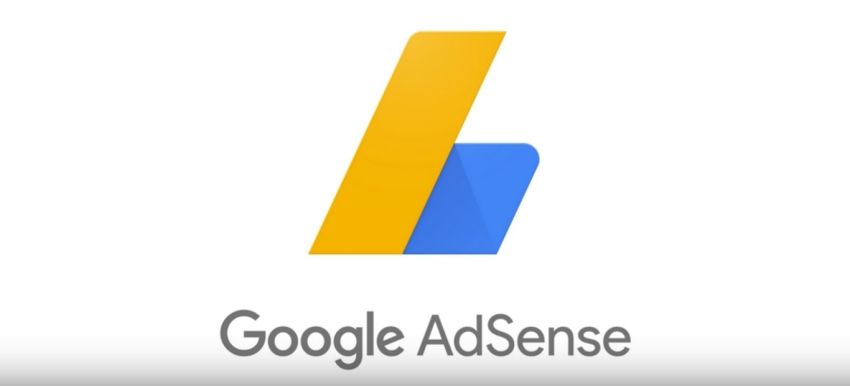
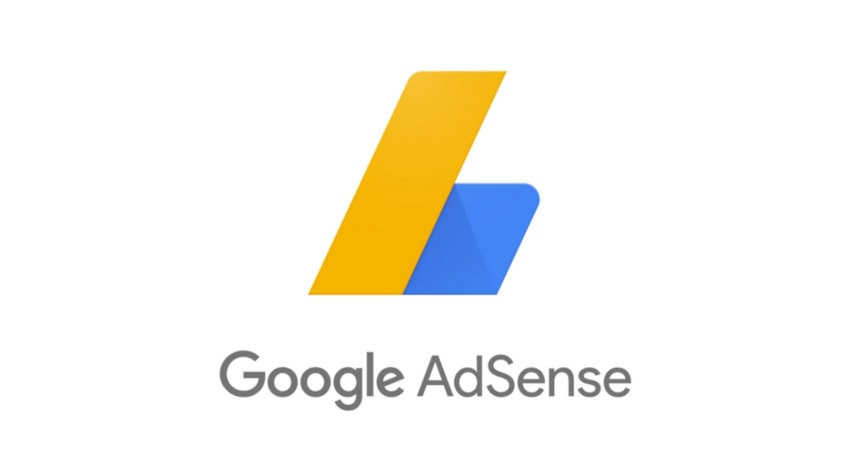
few image size fixes

diff --git a/_includes/pagination.html b/_includes/pagination.html
@@ -3,26 +3,34 @@
     <div class="row">
         <div class="col-lg-6">
 	{% if page.previous %}
-		
-	<ul class="popular-posts">            
-                <li>
-                    <a href="{{ site.baseurl}}{{ page.previous.url }}"><img src="{{ "/assets/img/blog/thumbs/" | prepend: site.baseurl }}{{ page.previous.thumb }}" alt="Previous Post"></a>
-                    <p><a href="{{ site.baseurl}}{{ page.previous.url }}">{{ page.previous.title }}</a></p>
-            </li>            
-        </ul>
-        <a class="btn btn-theme" href="{{ site.baseurl}}{{ page.previous.url }}" class="previous">Previous Post</a> 
+
+
+
+<div class="card">
+  <a href="{{ site.baseurl}}{{ page.previous.url }}"><img src="{{ "/assets/img/blog/" | prepend: site.baseurl }}{{ page.previous.img }}" alt="{{ page.previous.imagealt }}" style="width:100%"></a>
+  <div class="container">
+    <p><a href="{{ site.baseurl}}{{ page.previous.url }}">{{ page.previous.title }}</a></p>
+    <h4><a href="{{ site.baseurl}}{{ page.previous.url }}">Previous Post</a></h4>
+  </div>
+</div>
+
        {% endif %}
+       <br>
 </div>
 <div class="col-lg-6">
        {% if page.next %}
+
+
+
+
+       <div class="card">
+  <a href="{{ site.baseurl}}{{ page.next.url }}"><img src="{{ "/assets/img/blog/" | prepend: site.baseurl }}{{ page.next.img }}" alt="{{ page.next.imagealt }}" style="width:100%"></a>
+  <div class="container">
+    <p><a href="{{ site.baseurl}}{{ page.next.url }}">{{ page.next.title }}</a></p>
+    <h4><a href="{{ site.baseurl}}{{ page.next.url }}">Next Post</a></h4>
+  </div>
+</div>
 		
-		<ul class="popular-posts">            
-                <li>
-                    <a href="{{ site.baseurl}}{{ page.next.url }}"><img src="{{ "/assets/img/blog/thumbs/" | prepend: site.baseurl }}{{ page.next.thumb }}" alt="Next Post"></a>
-                    <p><a href="{{ site.baseurl}}{{ page.next.url }}">{{ page.next.title }}</a></p>
-            </li>        
-        </ul>
-        <a class="btn btn-theme" href="{{ site.baseurl}}{{ page.next.url }}" class="next">Next Post</a>
        {% endif %}
        </div>
 	</div>

diff --git a/_includes/share.html b/_includes/share.html
@@ -1,5 +1,5 @@
 <h3>Share This Article</h3>
-            <h2>
+            <h3>
                 <a href="//www.twitter.com/share?text={{ page.title | cgi_escape }}&url={{ page.url | prepend: site.url }}" target="_blank" title="Tweet" onclick="window.open(this.href, 'twitter-share');return false;">
                     <i class="fa fa-twitter"></i>
                 </a>
@@ -26,4 +26,4 @@
                 &nbsp;&nbsp;&nbsp;&nbsp;
                 <a href="mailto:?subject={{ page.title }}&body={{ page_url }}" target="_blank" title="Share via e-mail" class="fa fa-envelope">&nbsp;</a>
                 
-            </h2>
+            </h3>

diff --git a/_includes/css/style.css b/_includes/css/style.css
@@ -99,3 +99,20 @@ a.anchor{display:block;position:relative;top:-80px;visibility:hidden;}
 .pagination {
     text-align: center;
  }
+
+ .card {
+    box-shadow: 0 4px 8px 0 rgba(0,0,0,0.2);
+    transition: 0.3s;
+    border-radius: 5px; /* 5px rounded corners */
+    overflow: hidden;
+}
+
+}
+/* Add rounded corners to the top left and the top right corner of the image */
+.card img {
+    border-radius: 5px 5px 0 0;
+}
+
+.card-text {
+    word-wrap: break-word;
+}
